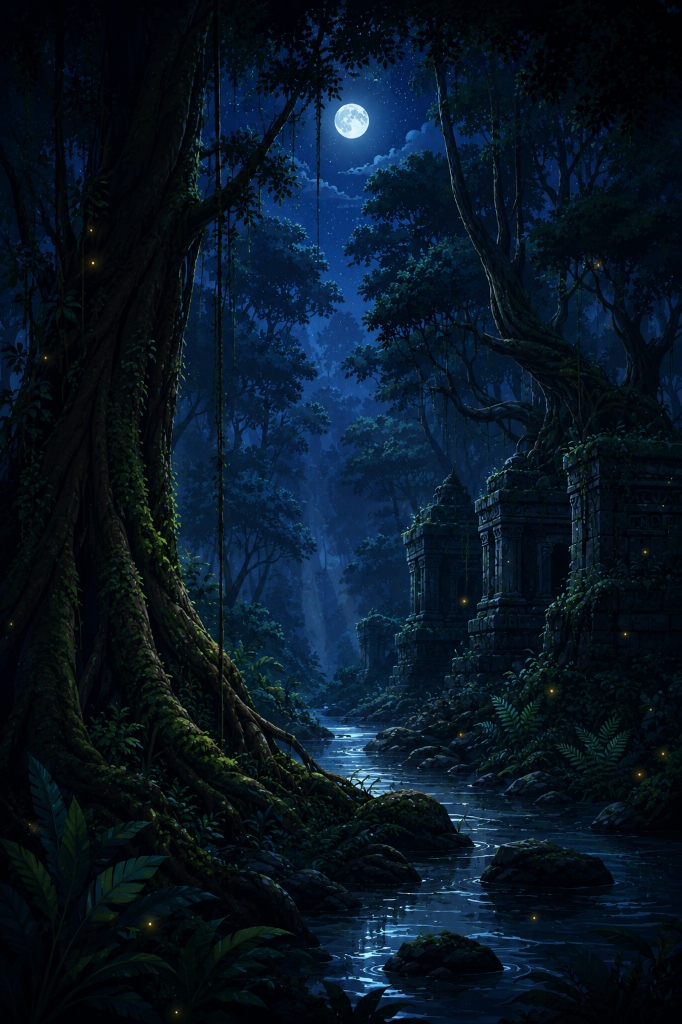
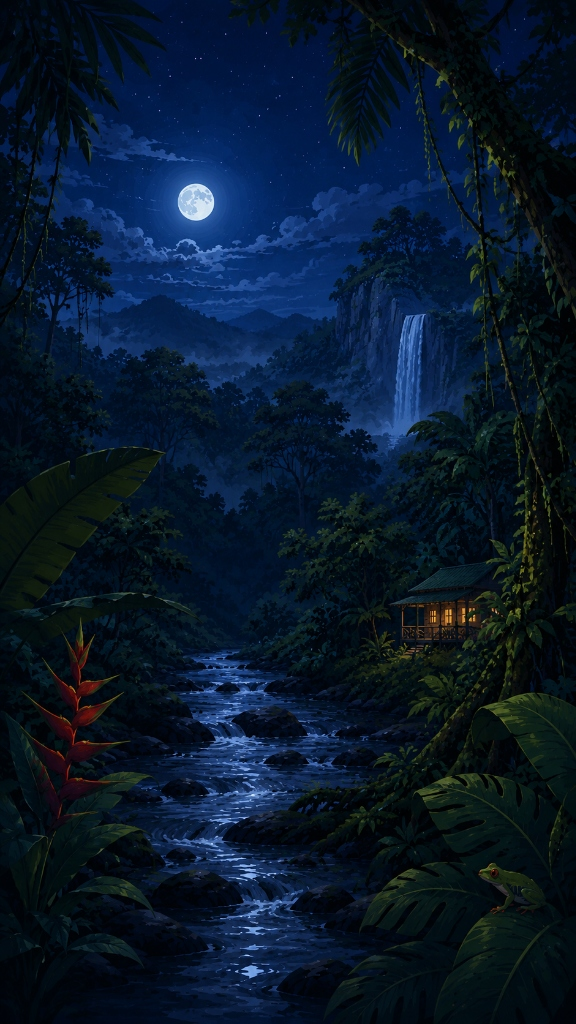
feat: introduce Zephyr theme design system and add atmospheric environment assets

diff --git a/src/App.jsx b/src/App.jsx
@@ -2681,8 +2681,8 @@ const DESTINATIONS = [
     image: '/costa_rica_ancient_forest_night.jpg',
     imageNight: '/costa_rica_ancient_forest_night.jpg',
     weather: 'Warm Rain 24°C',
-    accentColor: '#4ade80', // Emerald Leaf Green
-    glowColor: 'rgba(74, 222, 128, 0.5)',
+    accentColor: '#34d399', // Mint Emerald
+    glowColor: 'rgba(52, 211, 153, 0.45)',
     sounds: ['Rainforest Stream', 'Leaves & Rain Drips', 'Toucan', 'Glass Frog Chorus', 'Tree Frog Calls', 'Canopy Breeze', 'Creek Splashes', 'Distant Howler', 'Longing by Aurdos'],
     volPreset: {
       rainforest_stream: 40,
@@ -2701,10 +2701,11 @@ const DESTINATIONS = [
     title: 'Celestial Dunes',
     location: 'Dubai Sand Dunes',
     description: 'Breathe in the cool desert air as the dry wind whispers over shifting sands under a dome of stars.',
-    image: '/celestial_desert.png',
+    image: '/celestial_desert_night.jpg',
+    imageNight: '/celestial_desert_night.jpg',
     weather: 'Clear Sky 18°C',
-    accentColor: '#fbbf24', // Warm Sand Gold
-    glowColor: 'rgba(251, 191, 36, 0.55)',
+    accentColor: '#fcd34d', // Celestial Sand Gold
+    glowColor: 'rgba(252, 211, 77, 0.45)',
     sounds: ['Desert Wind', 'Sand Whisper', 'Oasis Water Ripples', 'Campfire Glow', 'Tent Flutter', 'Desert Night Insects', 'Ney Flute Echo', 'Camel Bells', 'Leben by Dieter Huber'],
     volPreset: {
       dunes_wind: 40,
@@ -2723,10 +2724,11 @@ const DESTINATIONS = [
     title: 'Alpine Peaks',
     location: 'Mountain Valley',
     description: 'Sit beside a roaring glacier stream as gusty mountain winds brush past the snowy heights.',
-    image: '/alpine_peaks.png',
+    image: '/alpine_peaks_night.jpg',
+    imageNight: '/alpine_peaks_night.jpg',
     weather: 'Chilly Breeze -2°C',
-    accentColor: '#60a5fa', // Glacial Ice Blue
-    glowColor: 'rgba(96, 165, 250, 0.5)',
+    accentColor: '#38bdf8', // Glacial Sky Blue
+    glowColor: 'rgba(56, 189, 248, 0.45)',
     sounds: ['Mountain Stream', 'Alpine Breeze', 'Pine Rustle', 'Creek Pebbles', 'Distant Waterfall', 'Meadow Grass', 'Soft Songbirds', 'Aeolian Harp Echo', 'Windstorm by Erik Reno'],
     volPreset: {
       mountain_stream: 40,
@@ -2745,11 +2747,11 @@ const DESTINATIONS = [
     title: 'Misty Coastline',
     location: 'Pacific Northwest',
     description: 'An ancient cedar and Douglas fir forest overlooking a misty coastline. Gentle forest rain falls through towers of evergreens as the ocean waves swell in the distance.',
-    image: '/pacific_northwest_day.jpg',
+    image: '/pacific_northwest_night.jpg',
     imageNight: '/pacific_northwest_night.jpg',
     weather: 'Misty Rain 12°C',
-    accentColor: '#0ea5e9', // Coastal Blue/Cyan
-    glowColor: 'rgba(14, 165, 233, 0.5)',
+    accentColor: '#2dd4bf', // Coastal Mint Teal
+    glowColor: 'rgba(45, 212, 191, 0.45)',
     sounds: ['Forest Rain', 'Creek Flow', 'Cedar Drips', 'Coastal Breeze', 'Ocean Swell', 'Tree Frogs', 'Songbirds', 'Fog Horn Echo', 'Photograph by Noham St Pierre'],
     volPreset: {
       pnw_rain: 35,
@@ -2768,7 +2770,8 @@ const DESTINATIONS = [
     title: 'Deep Ocean',
     location: 'Polynesian Coast',
     description: 'Relax to the slow, heavy rise and fall of giant Pacific waves breaking on a warm sandy shore.',
-    image: '/hero_background.png',
+    image: '/polynesian_coast.jpg',
+    imageNight: '/polynesian_coast.jpg',
     weather: 'Tropical Breeze 26°C',
     accentColor: '#38bdf8', // Pacific Marine Cyan
     glowColor: 'rgba(56, 189, 248, 0.5)',
@@ -2780,7 +2783,8 @@ const DESTINATIONS = [
     title: 'Japanese Garden',
     location: 'Kyoto Sanctuary',
     description: 'Sip tea near a trickling bamboo fountain while cherry blossom petals fall silently into the pond.',
-    image: '/study_sessions.png',
+    image: '/kyoto_sanctuary.jpg',
+    imageNight: '/kyoto_sanctuary.jpg',
     weather: 'Mist Fog 16°C',
     accentColor: '#f472b6', // Sakura Violet Pink
     glowColor: 'rgba(244, 114, 182, 0.5)',

diff --git a/src/index.css b/src/index.css
@@ -2462,17 +2462,17 @@ body {
     position: absolute;
     inset: 0;
     z-index: -1;
-    background: radial-gradient(circle at bottom, rgba(15, 10, 30, 0.6) 0%, rgba(3, 2, 5, 0.85) 100%);
+    background: radial-gradient(circle at bottom, rgba(15, 10, 30, 0.6) 0%, rgba(3, 2, 5, 0.6) 100%);
   }
 
   .mobile-hero-glow.dunes {
-    background: radial-gradient(circle at bottom, rgba(249, 115, 22, 0.18) 0%, rgba(15, 10, 28, 0.5) 50%, rgba(3, 2, 5, 0.85) 100%);
+    background: radial-gradient(circle at bottom, rgba(249, 115, 22, 0.18) 0%, rgba(15, 10, 28, 0.5) 50%, rgba(3, 2, 5, 0.6) 100%);
   }
   .mobile-hero-glow.forest {
-    background: radial-gradient(circle at bottom, rgba(34, 197, 94, 0.12) 0%, rgba(15, 10, 28, 0.5) 50%, rgba(3, 2, 5, 0.85) 100%);
+    background: radial-gradient(circle at bottom, rgba(34, 197, 94, 0.12) 0%, rgba(15, 10, 28, 0.5) 50%, rgba(3, 2, 5, 0.6) 100%);
   }
   .mobile-hero-glow.alpine {
-    background: radial-gradient(circle at bottom, rgba(192, 132, 252, 0.12) 0%, rgba(15, 10, 28, 0.5) 50%, rgba(3, 2, 5, 0.85) 100%);
+    background: radial-gradient(circle at bottom, rgba(192, 132, 252, 0.12) 0%, rgba(15, 10, 28, 0.5) 50%, rgba(3, 2, 5, 0.6) 100%);
   }
 
   /* Top Nav */
@@ -2526,22 +2526,20 @@ body {
   }
 
   .minimal-dest-title {
-    font-size: 1.35rem;
+    font-size: 1.45rem;
     font-weight: 700;
     color: #ffffff;
-    letter-spacing: -0.02em;
-    line-height: 1.25;
-    text-shadow: 0 2px 12px rgba(0, 0, 0, 0.7);
+    letter-spacing: -0.01em;
+    line-height: 1.2;
+    text-shadow: 0 2px 10px rgba(0, 0, 0, 0.45), 0 0 12px rgba(255, 255, 255, 0.08);
   }
 
   .minimal-dest-sublocation {
-    font-size: 0.7rem;
-    font-weight: 500;
-    letter-spacing: 0.12em;
+    font-size: 0.72rem;
+    font-weight: 600;
+    letter-spacing: 0.16em;
     text-transform: uppercase;
-    color: rgba(255, 255, 255, 0.65);
-    margin-top: 0.15rem;
-    text-shadow: 0 1px 6px rgba(0, 0, 0, 0.6);
+    margin-top: 0.2rem;
   }
 
   /* Sleek Minimal Progress Dots */